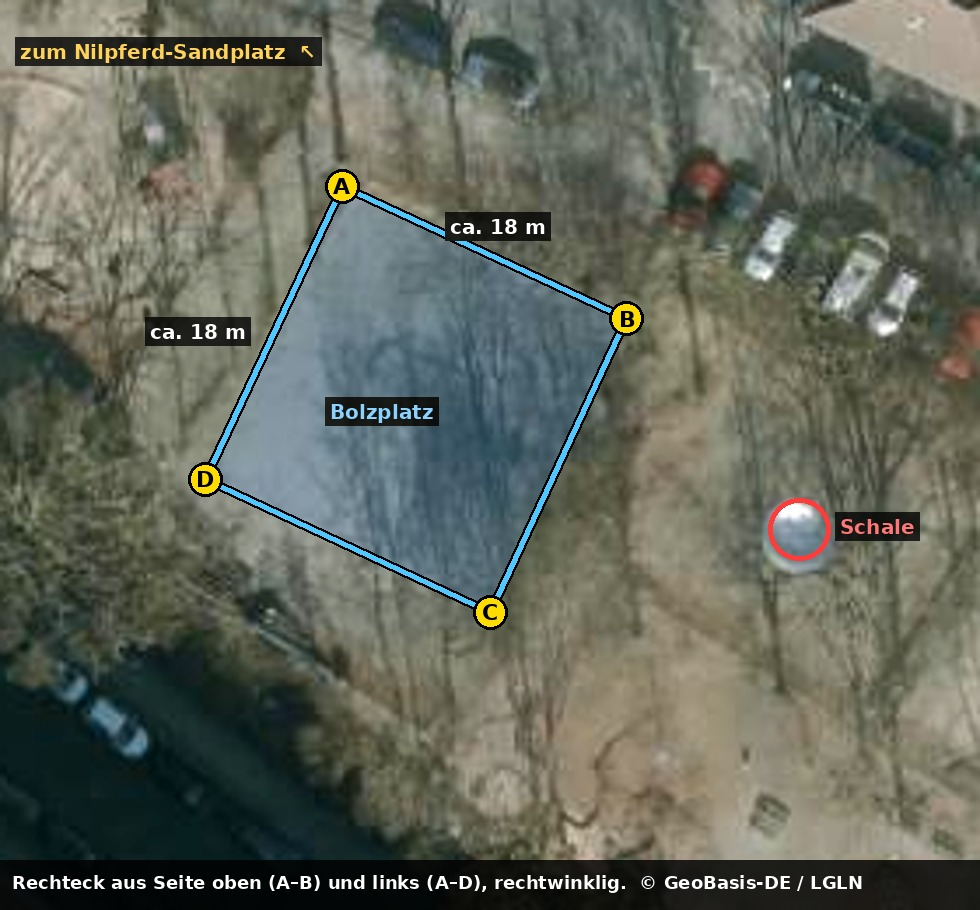
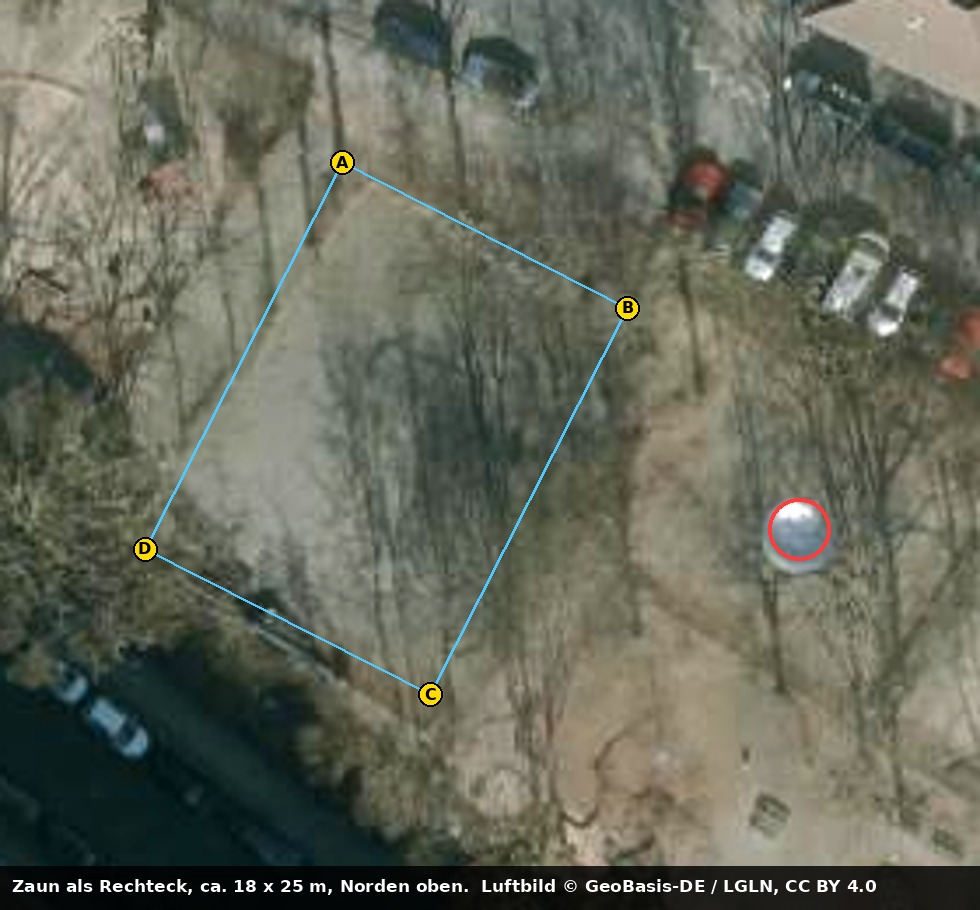
Boni site: court rectangle refitted to the lower and left fence lines (approx. 18 x 25 m)
Claude-Session: https://claude.ai/code/session_012w45xmR5wK2jym8RrJZRMa

diff --git a/docs/BONI_ORT.md b/docs/BONI_ORT.md
@@ -35,12 +35,12 @@ Die Skizze `docs/ort/boni_skizze.png` (erzeugt von `tools/art/venue/boni_blockou
 
 Bild: `docs/ort/boni_bolzplatz_grundriss.jpg` (Luftbild © GeoBasis-DE / LGLN, CC BY 4.0).
 
-- **Form:** Rechteck, eingezäunt. Seite oben (zur Straße mit den Parkplätzen) und Seite links (zum Nilpferd-Sandplatz) wurden aus dem Luftbild abgelesen, die anderen beiden rechtwinklig ergänzt.
-- **Größe:** ca. 18 m × 18,5 m (Messgenauigkeit etwa ±1 m; im Winterbild verdecken Astschatten den Rand).
-- **Ausrichtung:** Die obere Seite ist um ca. 25° gegen Ost–West gedreht (fällt nach Südosten ab).
+- **Form:** Rechteck, eingezäunt. Die linke Seite folgt dem Rand der hellen Asphaltfläche (zum Nilpferd-Sandplatz), die untere Seite der Zaunlinie entlang der Hecke an der Straße, die obere Seite der Kante zur Straße mit den Parkplätzen.
+- **Größe:** ca. 18 m (Seite oben) × 25 m (Seite links), Messgenauigkeit etwa ±1 m; im Winterbild verdecken Astschatten den Rand.
+- **Ausrichtung:** Die Seiten sind um ca. 27° gegen die Nord-Süd- und Ost-West-Achse gedreht, also etwa parallel zu den umliegenden Straßen.
 - **Ecken (WGS84, Breite/Länge):**
-  - A Nordwest: 52.389135 / 9.744611
-  - B Nordost: 52.389067 / 9.744850
-  - C Südost: 52.388917 / 9.744735
-  - D Südwest: 52.388985 / 9.744496
+  - A Nord: 52.389147 / 9.744611
+  - B Ost: 52.389073 / 9.744851
+  - C Süd: 52.388874 / 9.744686
+  - D West: 52.388949 / 9.744445
 - **Umgebung:** links (Nordwest) der Sandspielplatz mit Holz-Nilpferd, rechts (Südost) hinter Mulchstreifen die Metallschale, oben die Straße mit Schrägparkern und Altbauten, unten links Hecke und Straße.
